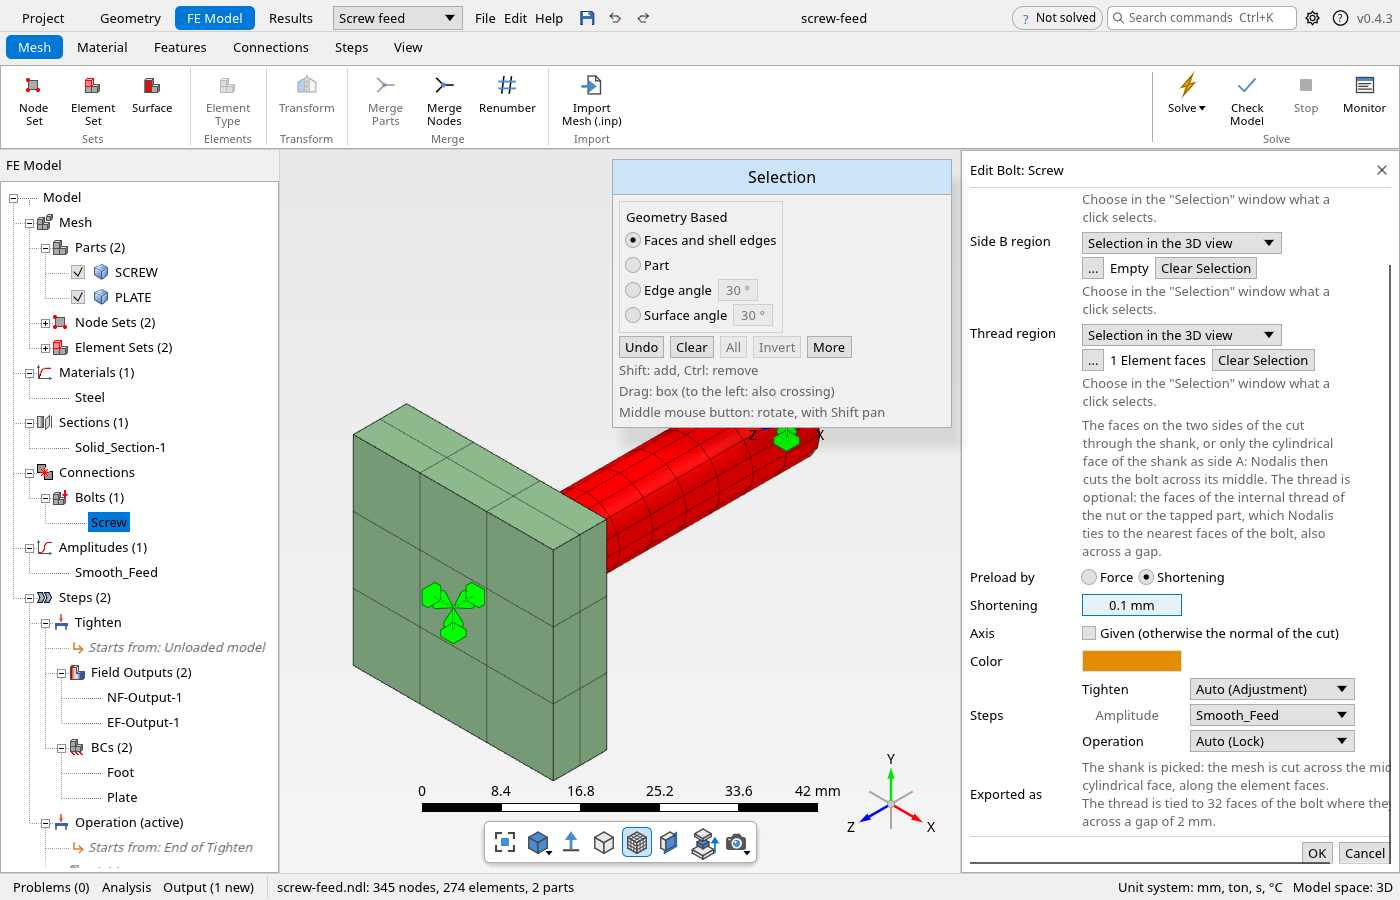
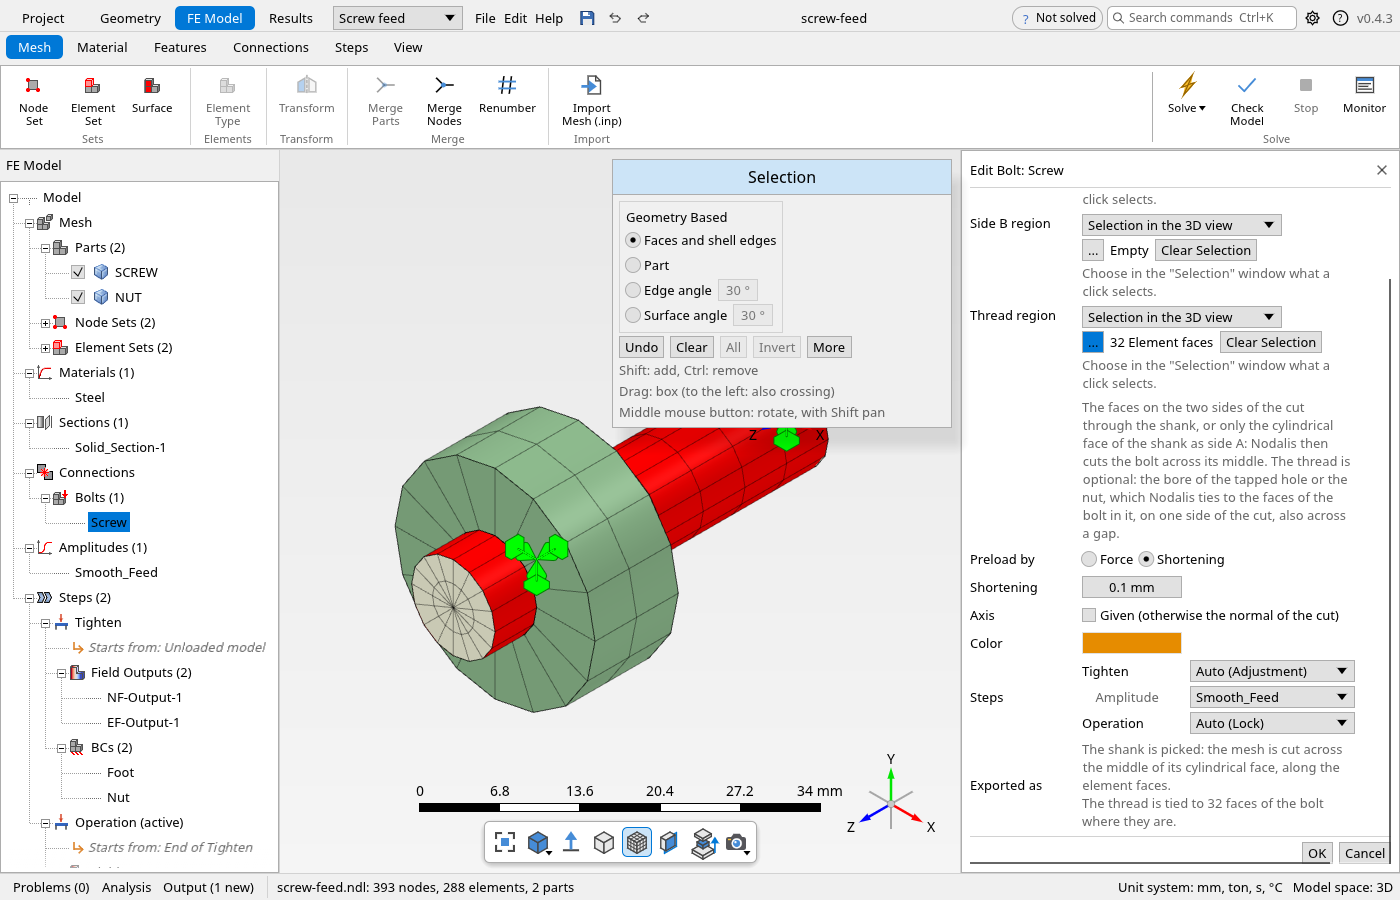
Bolt thread: pick the bore, cut the shank beside it
The thread region can now be the bore of a tapped hole or nut, blind or
through. Nodalis cuts the shank in the middle of its free part next to
the thread engagement and ties only the bolt faces on the thread side of
the cut to the bore.

Claude-Session: https://claude.ai/code/session_0117wmBLb7jBgaW9KthXPPQ1

diff --git a/crates/plx-io/src/inp/write/tests.rs b/crates/plx-io/src/inp/write/tests.rs
@@ -12535,3 +12535,174 @@ fn a_bolt_screwed_into_its_thread_pulls_the_plate() {
     assert!(foot < -1.0, "{foot}");
     assert!((foot + top).abs() < 1e-6 * foot.abs(), "{foot} {top}");
 }
+
+/// A round bolt of radius 5 along z from 0 to 40 (wedges around the axis and a ring of
+/// hexahedra, 16 around, 8 layers of 5), part SCREW, held at its foot (node set FOOT), screwed
+/// through a threaded ring from z = 25 to 35 around it (part NUT, inner radius 5, outer 10,
+/// held outside: node set RIM). The bolt is picked by its whole cylindrical face, the thread
+/// by the bore of the ring; the bolt sticks out of the ring at the top.
+fn bolt_through_tapped_ring(shortening: f64) -> (FeMesh, FeModel) {
+    let (around, along) = (16usize, 8usize);
+    let per_layer = 1 + 2 * around;
+    let node = |layer: usize, ring: usize, i: usize| -> usize {
+        1 + layer * per_layer
+            + if ring == 0 {
+                0
+            } else {
+                1 + (ring - 1) * around + i % around
+            }
+    };
+    let angle = |i: usize| std::f64::consts::TAU * i as f64 / around as f64;
+    let mut text = String::from("*Node\n");
+    for layer in 0..=along {
+        let z = 5.0 * layer as f64;
+        let _ = writeln!(text, "{}, 0, 0, {z}", node(layer, 0, 0));
+        for ring in 1..=2 {
+            for i in 0..around {
+                let r = 2.5 * ring as f64;
+                let (x, y) = (r * angle(i).cos(), r * angle(i).sin());
+                let _ = writeln!(text, "{}, {x}, {y}, {z}", node(layer, ring, i));
+            }
+        }
+    }
+    let base = node(along + 1, 0, 0);
+    let nut =
+        |k: usize, outer: usize, i: usize| base + k * 2 * around + outer * around + i % around;
+    for k in 0..3 {
+        for outer in 0..2 {
+            for i in 0..around {
+                let r = if outer == 0 { 5.0 } else { 10.0 };
+                let (x, y) = (r * angle(i).cos(), r * angle(i).sin());
+                let _ = writeln!(
+                    text,
+                    "{}, {x}, {y}, {}",
+                    nut(k, outer, i),
+                    25.0 + 5.0 * k as f64
+                );
+            }
+        }
+    }
+    let mut wedges = String::from("*Element, Type=C3D6, Elset=SCREW\n");
+    let mut hexes = String::from("*Element, Type=C3D8, Elset=SCREW\n");
+    let mut shank = Vec::new();
+    let mut id = 1;
+    for layer in 0..along {
+        let (b, t) = (layer, layer + 1);
+        for i in 0..around {
+            let _ = writeln!(
+                wedges,
+                "{id}, {}, {}, {}, {}, {}, {}",
+                node(b, 0, 0),
+                node(b, 1, i),
+                node(b, 1, i + 1),
+                node(t, 0, 0),
+                node(t, 1, i),
+                node(t, 1, i + 1)
+            );
+            id += 1;
+            let _ = writeln!(
+                hexes,
+                "{id}, {}, {}, {}, {}, {}, {}, {}, {}",
+                node(b, 1, i),
+                node(b, 2, i),
+                node(b, 2, i + 1),
+                node(b, 1, i + 1),
+                node(t, 1, i),
+                node(t, 2, i),
+                node(t, 2, i + 1),
+                node(t, 1, i + 1)
+            );
+            // Face 4 lies on the cylinder.
+            shank.push((id as ElementId, 4));
+            id += 1;
+        }
+    }
+    let mut ring = String::from("*Element, Type=C3D8, Elset=NUT\n");
+    let mut bore = Vec::new();
+    for k in 0..2 {
+        for i in 0..around {
+            let _ = writeln!(
+                ring,
+                "{id}, {}, {}, {}, {}, {}, {}, {}, {}",
+                nut(k, 0, i),
+                nut(k, 1, i),
+                nut(k, 1, i + 1),
+                nut(k, 0, i + 1),
+                nut(k + 1, 0, i),
+                nut(k + 1, 1, i),
+                nut(k + 1, 1, i + 1),
+                nut(k + 1, 0, i + 1)
+            );
+            // Face 6 (nodes 4, 8, 5, 1) lies on the bore.
+            bore.push((id as ElementId, 6));
+            id += 1;
+        }
+    }
+    let foot: Vec<String> = (0..per_layer).map(|k| (1 + k).to_string()).collect();
+    let rim: Vec<String> = (0..3)
+        .flat_map(|k| (0..around).map(move |i| (k, i)))
+        .map(|(k, i)| nut(k, 1, i).to_string())
+        .collect();
+    let _ = write!(
+        text,
+        "{wedges}{hexes}{ring}*Nset, Nset=FOOT\n{}\n*Nset, Nset=RIM\n{}\n",
+        foot.join(",\n"),
+        rim.join(",\n")
+    );
+    let mesh = crate::inp::read_inp_str(&text, None).unwrap().mesh;
+    let (_, mut model) = cantilever(tip_force());
+    model.sections[0].region = Region::Parts(vec!["SCREW".into(), "NUT".into()]);
+    let step = &mut model.steps[0];
+    step.loads.clear();
+    step.boundary_conditions[0].region = Region::NodeSet("FOOT".into());
+    let mut rim = step.boundary_conditions[0].clone();
+    rim.name = "Fixed-2".into();
+    rim.region = Region::NodeSet("RIM".into());
+    step.boundary_conditions.push(rim);
+    let mut bolt = plx_model::Bolt {
+        id: named("Bolt-1"),
+        ..plx_model::Bolt::new("Bolt-1")
+    };
+    bolt.side_a = Region::Faces(shank);
+    bolt.thread = Region::Faces(bore);
+    bolt.preload = plx_model::Preload::Shortening(shortening);
+    model.bolts.push(bolt);
+    (mesh, model)
+}
+
+/// With the bore of a through hole picked as the thread, the bolt is cut across the middle
+/// of its free part below the ring, and only the shank inside the ring is tied to the bore.
+#[test]
+fn a_bolt_through_a_tapped_hole_is_tied_in_the_bore_and_cut_below_it() {
+    let (mesh, model) = bolt_through_tapped_ring(0.01);
+    let bolt = &model.bolts[0];
+    let cut = model.resolve_bolt(bolt, &mesh).unwrap();
+    let z = |n: NodeId| mesh.node(n).unwrap()[2];
+    for &(e, f) in &cut.cut_faces {
+        for n in constraints::face_node_ids(&mesh, e, f) {
+            assert!(z(n) < 25.0, "cut at {}", z(n));
+        }
+    }
+    let thread = model.resolve_thread(bolt, &mesh).unwrap().unwrap();
+    assert!(thread.gap < 1e-9, "{thread:?}");
+    // The cylinder faces of the two layers in the ring.
+    assert_eq!(thread.bolt_faces.len(), 32, "{thread:?}");
+    for &(e, f) in &thread.bolt_faces {
+        for n in constraints::face_node_ids(&mesh, e, f) {
+            assert!((25.0..=35.0).contains(&z(n)), "tied at {}", z(n));
+        }
+    }
+    let text = write_inp(&mesh, &model, "").unwrap();
+    let Some((frd, _)) = run_frd_dat("schraube-durchgangsgewinde", &text) else {
+        return;
+    };
+    // The bolt pulls the ring down towards its foot.
+    let sum = |set: &str| -> f64 {
+        (mesh.node_sets[set].iter())
+            .map(|&node| node_value(&frd, "FORC", "F3", node))
+            .sum()
+    };
+    let (foot, rim) = (sum("FOOT"), sum("RIM"));
+    assert!(foot < -1.0, "{foot}");
+    assert!((foot + rim).abs() < 1e-4 * foot.abs(), "{foot} {rim}");
+}

diff --git a/crates/plx-model/src/bolt.rs b/crates/plx-model/src/bolt.rs
@@ -246,7 +246,35 @@ impl FeModel {
         if b.is_empty()
             && let Some(shank) = Shank::of(&a, mesh)
         {
-            return shank.cut(&a, mesh);
+            // Across the middle of the free part of the shank: beside the part of it in the
+            // thread, which a cut must not split from the thread.
+            let engaged = match self.thread_faces(bolt, mesh) {
+                Ok(Some(thread)) => (thread.bolt_faces.iter())
+                    .flat_map(|&f| face_nodes(mesh, f))
+                    .filter_map(|n| mesh.node(n))
+                    .map(|p| dot(p, shank.axis))
+                    .fold(None, |range: Option<(f64, f64)>, t| {
+                        Some(range.map_or((t, t), |(lo, hi)| (lo.min(t), hi.max(t))))
+                    }),
+                _ => None,
+            };
+            let middle = match engaged {
+                None => 0.5 * (shank.start + shank.end),
+                Some((lo, hi)) => {
+                    let below = (shank.start, lo.min(shank.end));
+                    let above = (hi.max(shank.start), shank.end);
+                    let (from, to) = if below.1 - below.0 >= above.1 - above.0 {
+                        below
+                    } else {
+                        above
+                    };
+                    if to <= from {
+                        return Err("the thread takes the whole shank: no free part to cut".into());
+                    }
+                    0.5 * (from + to)
+                }
+            };
+            return shank.cut(&a, mesh, middle);
         }
         let nodes = |faces: &[(ElementId, u8)]| -> BTreeSet<NodeId> {
             faces.iter().flat_map(|&f| face_nodes(mesh, f)).collect()
@@ -294,15 +322,56 @@ impl FeModel {
     }
 
     /// How the bolt is joined to its internal thread: the outer faces of the bolt nearest to
-    /// the thread faces, a band half an element wide beyond the nearest, tied to them where
-    /// they are. They are the shank in a tapped hole, or the end face of a bolt simplified to
-    /// a cylinder that stops short of the part it is screwed into. `None` without thread
-    /// faces.
+    /// the thread faces, a band half an element wide beyond the nearest, on the thread's
+    /// side of the cut, tied to them where they are. They are the shank in a tapped hole
+    /// (the bore picked as the thread), or the end face of a bolt simplified to a cylinder
+    /// that stops short of the part it is screwed into. `None` without thread faces.
     pub fn resolve_thread(
         &self,
         bolt: &Bolt,
         mesh: &FeMesh,
     ) -> Result<Option<ResolvedThread>, String> {
+        let Some(mut thread) = self.thread_faces(bolt, mesh)? else {
+            return Ok(None);
+        };
+        let Ok(cut) = self.resolve_bolt(bolt, mesh) else {
+            return Ok(Some(thread));
+        };
+        // The plane of the cut: the centre of its faces, square to the preload.
+        let points: Vec<[f64; 3]> = (cut.cut_faces.iter())
+            .filter_map(|&f| face_centre(mesh, f))
+            .collect();
+        let normal = bolt.axis.or(cut.shank_axis).or_else(|| {
+            let mut sum = [0.0; 3];
+            for n in cut.cut_faces.iter().filter_map(|&f| face_normal(mesh, f)) {
+                (0..3).for_each(|k| sum[k] += n[k]);
+            }
+            (dot(sum, sum) > 0.0).then_some(sum)
+        });
+        let (Some(normal), false) = (normal, points.is_empty()) else {
+            return Ok(Some(thread));
+        };
+        let k = points.len() as f64;
+        let origin = [0, 1, 2].map(|d| points.iter().map(|p| p[d]).sum::<f64>() / k);
+        let side = |p: [f64; 3]| dot([0, 1, 2].map(|d| p[d] - origin[d]), normal);
+        // The side of the thread: where most of the bolt faces tied to it lie.
+        let sides: Vec<f64> = (thread.bolt_faces.iter())
+            .map(|&f| face_centre(mesh, f).map_or(0.0, side))
+            .collect();
+        let thread_side = sides.iter().sum::<f64>().signum();
+        let kept: Vec<(ElementId, u8)> = (thread.bolt_faces.iter().zip(&sides))
+            .filter(|(_, s)| s.signum() == thread_side)
+            .map(|(&f, _)| f)
+            .collect();
+        if kept.is_empty() {
+            return Err("the thread lies on the cut".into());
+        }
+        thread.bolt_faces = kept;
+        Ok(Some(thread))
+    }
+
+    /// [`Self::resolve_thread`] without regard to the cut.
+    fn thread_faces(&self, bolt: &Bolt, mesh: &FeMesh) -> Result<Option<ResolvedThread>, String> {
         let thread = solid_faces(&bolt.thread, mesh);
         if thread.is_empty() {
             return if bolt.thread.is_empty() {
@@ -722,7 +791,12 @@ impl Shank {
     /// The slice across the middle of the shank: the faces between the elements inside the
     /// shank below the middle and those above it, on the elements below. The slice follows
     /// the element faces, so the mesh needs no new nodes.
-    fn cut(&self, faces: &[(ElementId, u8)], mesh: &FeMesh) -> Result<ResolvedBolt, String> {
+    fn cut(
+        &self,
+        faces: &[(ElementId, u8)],
+        mesh: &FeMesh,
+        middle: f64,
+    ) -> Result<ResolvedBolt, String> {
         let elements: BTreeSet<ElementId> = faces.iter().map(|&(e, _)| e).collect();
         let parts: Vec<&plx_mesh::Part> = (mesh.parts.iter())
             .filter(|p| p.elements.iter().any(|e| elements.contains(e)))
@@ -736,7 +810,6 @@ impl Shank {
                 .collect(),
             None => mesh.elements().iter().collect(),
         };
-        let middle = 0.5 * (self.start + self.end);
         let reach = self.radius + 0.25 * mean_size(faces, mesh);
         let mut below = Vec::new();
         let mut above: BTreeMap<Vec<NodeId>, ()> = BTreeMap::new();

diff --git a/crates/plx-app/src/bolts.rs b/crates/plx-app/src/bolts.rs
@@ -146,14 +146,16 @@ pub fn bolt_form(
     sides.ui(ui, model);
     (bolt.side_a, bolt.side_b, bolt.thread) = sides.regions();
     ui.label("");
+    // The width of the second column before the steps' grid widens it, for the texts.
+    let text_width = ui.available_width();
     ui.add(
         egui::Label::new(
             RichText::new(
                 "The faces on the two sides of the cut through the shank, or only the \
                  cylindrical face of the shank as side A: Nodalis then cuts the bolt across \
-                 its middle. The thread is optional: the faces of the internal thread of \
-                 the nut or the tapped part, which Nodalis ties to the nearest faces of the \
-                 bolt, also across a gap.",
+                 its middle. The thread is optional: the bore of the tapped hole or the nut, \
+                 which Nodalis ties to the faces of the bolt in it, on one side of the cut, \
+                 also across a gap.",
             )
             .weak(),
         )
@@ -215,7 +217,10 @@ pub fn bolt_form(
     ui.end_row();
     ui.label("Exported as");
     let text = view.exported(model, bolt).to_owned();
-    ui.add(egui::Label::new(RichText::new(text).weak()).wrap());
+    ui.vertical(|ui| {
+        ui.set_max_width(text_width);
+        ui.add(egui::Label::new(RichText::new(text).weak()).wrap());
+    });
     ui.end_row();
 }
 
